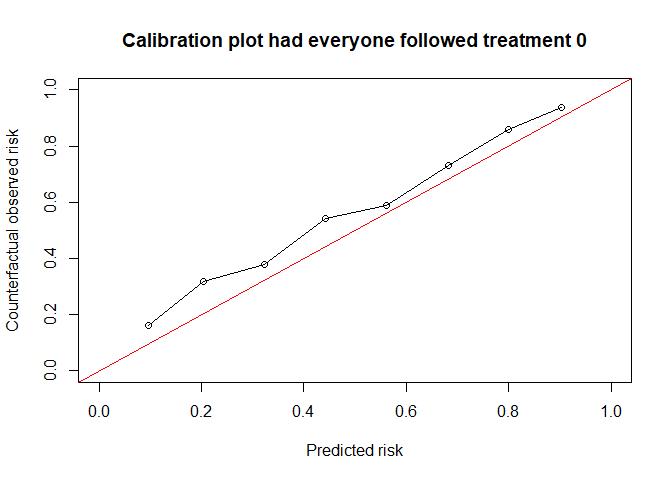
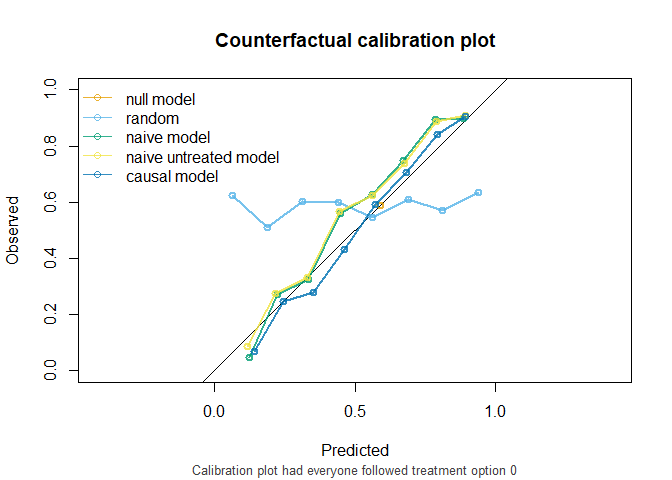
readme

diff --git a/README.md b/README.md
@@ -22,3 +22,183 @@ You can install the development version of CFeval from
 # install.packages("devtools")
 devtools::install_github("jvelumc/CFeval")
 ```
+
+## Example
+
+Simulate example data for binary outcome $Y$ and point treatment $A$,
+with the relation between $A$ and $Y$ confounded by variable $L$.
+Variable $P$ is a prognostic variable for only the outcome. The
+treatment reduces the risk on a bad outcome ($Y = 1$) in this simulated
+example.
+
+<figure>
+<img src="man/figures/dag.png" alt="Figure 1. DAG for toy example" />
+<figcaption aria-hidden="true">Figure 1. DAG for toy
+example</figcaption>
+</figure>
+
+``` r
+n <- 1000
+
+df_dev <- data.frame(id = 1:n)
+df_dev$L <- rnorm(n)
+df_dev$A <- rbinom(n, 1, plogis(df_dev$L))
+df_dev$P <- rnorm(n)
+df_dev$Y <- rbinom(n, 1, plogis(0.5 + df_dev$L + 1.25 * df_dev$P - 0.6*df_dev$A))
+```
+
+We also need something to validate. We will create a couple of models
+using the development data.
+
+``` r
+# naive model, not accounting for confounding variable L
+naive_model <- glm(Y ~ A + P, family = "binomial", data = df_dev)
+
+# model targeting untreated risk, not accounting for confounding
+naive_untreated_model <- glm(Y ~ P, family = "binomial", data = df_dev[df_dev$A == 0, ])
+
+# causal model, accounting for L by IP-weighting
+trt_model <- glm(A ~ L, family = "binomial", data = df_dev)
+propensity_score <- predict(trt_model, type = "response")
+df_dev$iptw <- 1 / ifelse(df_dev$A == 1, propensity_score, 1 - propensity_score)
+causal_model <- glm(Y ~ A + P, family = "binomial", data = df_dev, weights = iptw)
+#> Warning in eval(family$initialize): non-integer #successes in a binomial glm!
+
+# a model that randomly predicts something, not very good probably
+random_predictions <- runif(5000, 0, 1)
+```
+
+Note that according to the naive model, we should not treat anybody, as
+patients that get treated have a higher risk for the outcome. The causal
+model correctly infers that treatment benefits patients.
+
+``` r
+print(coefficients(naive_model))
+#> (Intercept)           A           P 
+#>   0.1167948   0.2568862   0.9279159
+print(coefficients(causal_model))
+#> (Intercept)           A           P 
+#>   0.4085166  -0.5148785   0.9022130
+```
+
+We are now interested in how the models perform in an external
+validation dataset. This dataset can have a different causal structure
+from the original development dataset. In this example, we simulate that
+patients are treated more aggressively. The relation between the outcome
+and the other variables is the same.
+
+``` r
+n <- 5000
+
+df_val <- data.frame(id = 1:n)
+df_val$L <- rnorm(n)
+df_val$A <- rbinom(n, 1, plogis(0.5 + df_val$L))
+df_val$P <- rnorm(n)
+df_val$Y <- rbinom(n, 1, plogis(0.5 + df_val$L + 1.25 * df_val$P - 0.6*df_val$A))
+```
+
+The question that we would like to have answered is the following:
+
+How well does our prediction model perform if we were to treat nobody?
+
+The CFeval package aims to provide tools to answer questions like this.
+The main function `CFscore()` can be used for this.
+
+``` r
+library(CFeval)
+
+CFscore(
+  object = list(
+    "random" = random_predictions,
+    "naive model" = naive_model,
+    "naive untreated model" = naive_untreated_model,
+    "causal model" = causal_model
+  ),
+  data = df_val, 
+  outcome_formula = Y ~ 1,
+  treatment_formula = A ~ L, 
+  treatment_of_interest = 0
+)
+#> Estimation of the performance of the prediction model in a
+#>  counterfactual (CF) dataset where everyone's treatment A was set to 0.
+#> The following assumptions must be satisfied for correct inference:
+#> - Conditional exchangeability requires that given IP-weights are
+#>  sufficient to adjust for confounding and selection bias between
+#>  treatment and outcome.
+#> - Positivity (assess $ipt$weights for outliers)
+#> - Consistency
+#> - No interference
+#> - Correctly specified propensity formula. Estimated treatment model is
+#>  logit(A) = 0.49 + 0.96*L. See also $ipt$model
+#> 
+#>                  model   auc brier oeratio
+#>             null model 0.500 0.242    1.00
+#>                 random 0.512 0.327    1.19
+#>            naive model 0.760 0.199    1.12
+#>  naive untreated model 0.760 0.198    1.12
+#>           causal model 0.760 0.195    1.01
+```
+
+<img src="man/figures/README-unnamed-chunk-6-1.png" width="100%" />
+
+As we see, the causal model has best calibration and Brier score.
+
+Note that the AUC of the naive models and the causal model are equal.
+AUC is driven entirely by how individuals’ model predictions are ranked,
+not by the magnitude of the predictions. In this simple setting, P is
+the only variable driving prognostic differences between individuals (in
+a pseudopopulation where we counterfactually set everyone’s treatment
+status to $0$). While the models have different coefficients for P,
+individuals are ranked in exactly the same way.
+
+$CFscore()$ also supports stabilized weights and bootstrapping for
+confidence intervals. Right censored survival data and cox models are
+also supported.
+
+``` r
+CFscore(
+  object = list(
+    "random" = random_predictions,
+    "naive model" = naive_model,
+    "naive untreated model" = naive_untreated_model,
+    "causal model" = causal_model
+  ),
+  data = df_val, 
+  outcome_formula = Y ~ 1,
+  treatment_formula = A ~ L, 
+  treatment_of_interest = 0,
+  bootstrap = 50,
+  bootstrap_progress = FALSE,
+  stable_iptw = TRUE,
+  quiet = TRUE
+)
+#> 
+#> auc
+#> 
+#>                  model   auc lower upper
+#>             null model 0.500 0.500 0.500
+#>                 random 0.512 0.479 0.540
+#>            naive model 0.760 0.726 0.782
+#>  naive untreated model 0.760 0.726 0.782
+#>           causal model 0.760 0.726 0.782
+#> 
+#> brier
+#> 
+#>                  model brier lower upper
+#>             null model 0.242 0.237 0.245
+#>                 random 0.327 0.312 0.348
+#>            naive model 0.199 0.192 0.209
+#>  naive untreated model 0.198 0.191 0.209
+#>           causal model 0.195 0.187 0.204
+#> 
+#> oeratio
+#> 
+#>                  model oeratio lower upper
+#>             null model    1.00 0.977  1.05
+#>                 random    1.19 1.147  1.25
+#>            naive model    1.12 1.100  1.18
+#>  naive untreated model    1.12 1.100  1.18
+#>           causal model    1.01 0.984  1.06
+```
+
+<img src="man/figures/README-unnamed-chunk-7-1.png" width="100%" /><img src="man/figures/README-unnamed-chunk-7-2.png" width="100%" /><img src="man/figures/README-unnamed-chunk-7-3.png" width="100%" /><img src="man/figures/README-unnamed-chunk-7-4.png" width="100%" /><img src="man/figures/README-unnamed-chunk-7-5.png" width="100%" /><img src="man/figures/README-unnamed-chunk-7-6.png" width="100%" />
